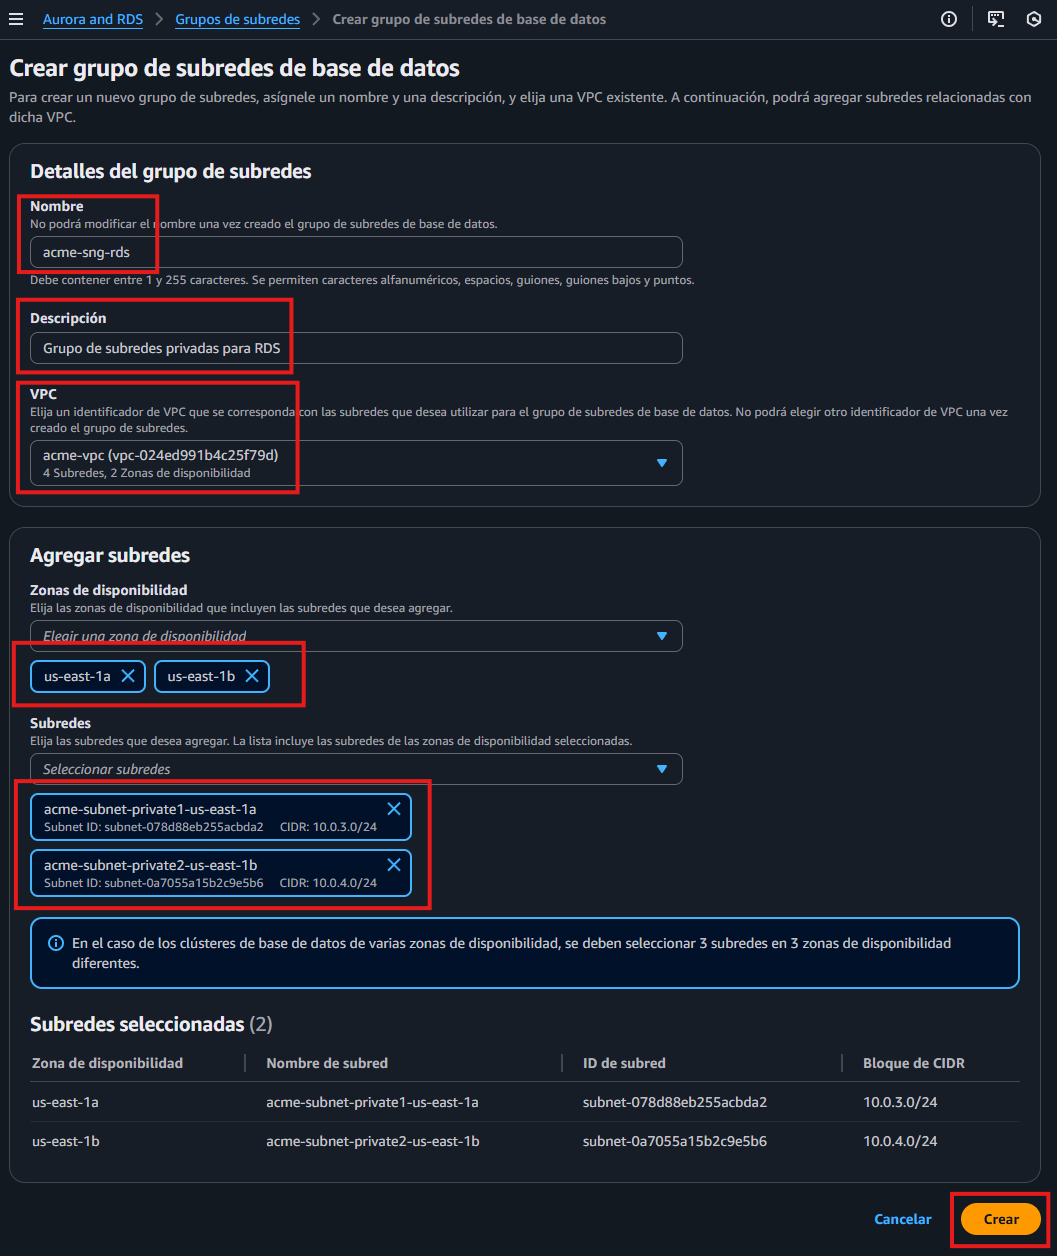
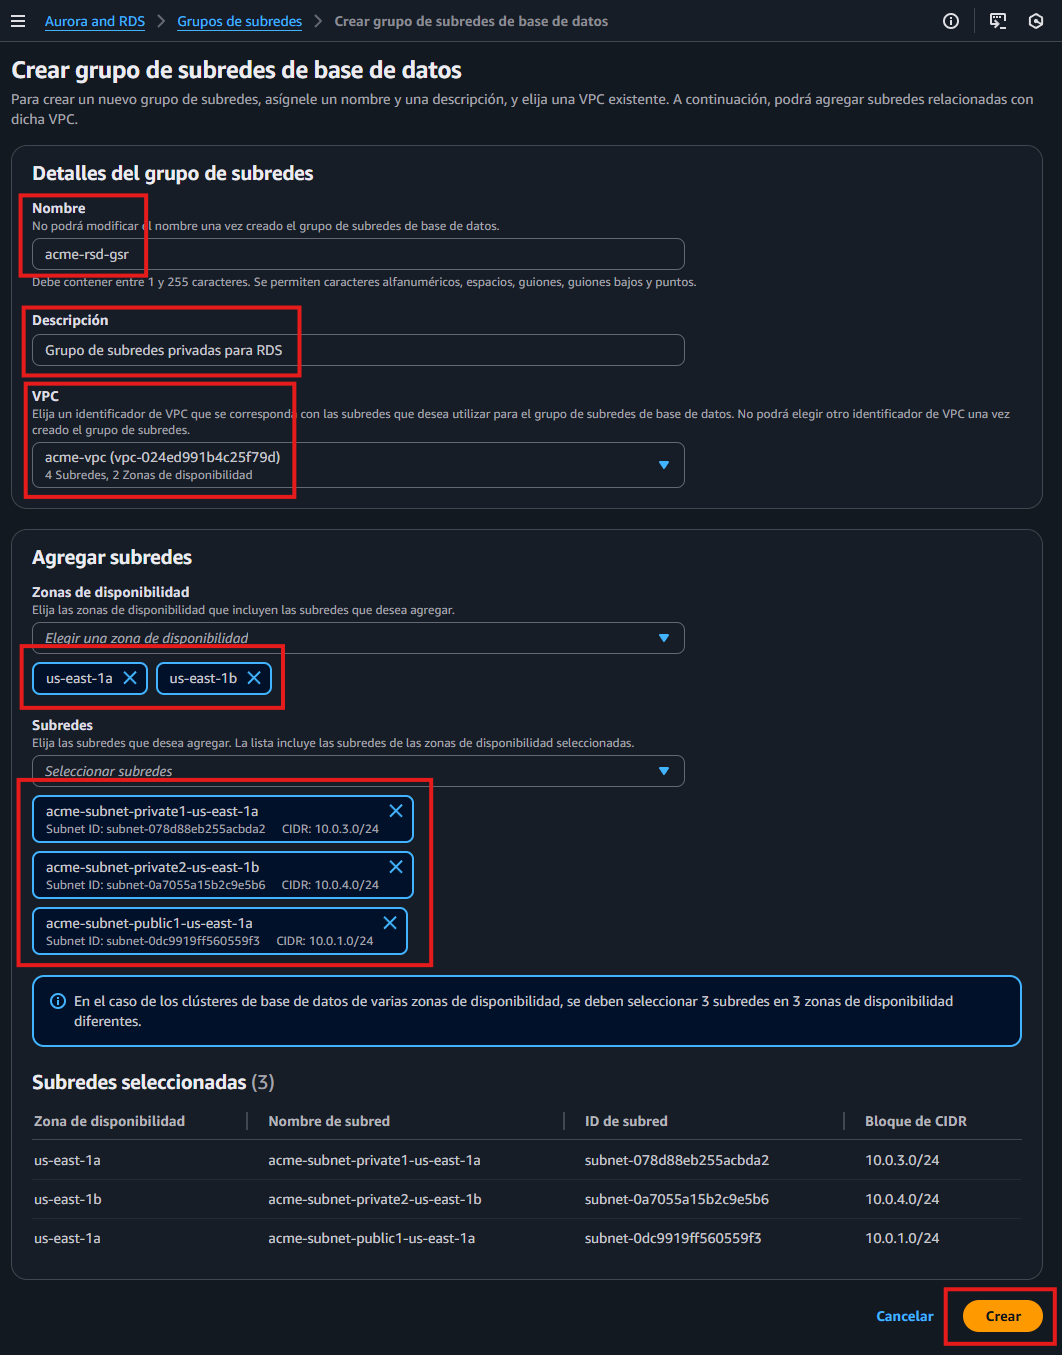
update

diff --git a/Portafolio/M4/portafolio_infraestructura_viva.md b/Portafolio/M4/portafolio_infraestructura_viva.md
@@ -104,14 +104,16 @@ Diseñar y desplegar una red virtual privada (VPC) completamente desde cero para
 
 ## 🧾 Crear y Configuración de grupo de subredes de base de datos
 
-| **Atributo**                | **Valor**                                            | **Motivo / Justificación**                                                                     |
-| --------------------------- | ---------------------------------------------------- | ---------------------------------------------------------------------------------------------- |
-| **Nombre**                  | `acme-rsd-gsr`                                       | Nombre identificador del grupo de subredes para RDS. Sigue convención de nombres del proyecto. |
-| **Descripción**             | `Grupo de subredes privadas para RDS` | Descripción clara que indica el propósito: uso con subredes privadas.                          |
-| **VPC**                     | `acme-vpc`                   | VPC personalizada donde se encuentran las subredes y recursos del proyecto.                    |
-| **Zonas de disponibilidad** | `us-east-1a`, `us-east-1b`                           | Uso de 2 AZs distribuye los recursos para alta disponibilidad sin necesidad de 3 subredes.     |
-| **Subred 1**                | `acme-subnet-private1-us-east-1a` (`10.0.3.0/24`)    | Subred privada en AZ `us-east-1a`, evita acceso directo a internet, ideal para RDS.            |
-| **Subred 2**                | `acme-subnet-private2-us-east-1b` (`10.0.4.0/24`)    | Subred privada en AZ `us-east-1b`, complementa la distribución multi-AZ mínima.                |
+| **Atributo**                | **Valor**                                         | **Motivo / Justificación**                                                                     |
+| --------------------------- | ------------------------------------------------- | ---------------------------------------------------------------------------------------------- |
+| **Nombre**                  | `acme-rsd-gsr`                                    | Nombre identificador del grupo de subredes para RDS. Sigue convención de nombres del proyecto. |
+| **Descripción**             | `Grupo de subredes privadas para RDS`             | Describe el uso general del grupo, enfocado en subredes privadas.                              |
+| **VPC**                     | `acme-vpc`               | VPC personalizada del proyecto donde están definidas las subredes necesarias.                  |
+| **Zonas de disponibilidad** | `us-east-1a`, `us-east-1b`                        | Cobertura multi-AZ para garantizar alta disponibilidad.                                        |
+| **Subred 1**                | `acme-subnet-private1-us-east-1a` (`10.0.3.0/24`) | Subred privada en `us-east-1a`, ideal para aislar servicios backend como RDS.                  |
+| **Subred 2**                | `acme-subnet-private2-us-east-1b` (`10.0.4.0/24`) | Subred privada en `us-east-1b`, garantiza redundancia multi-AZ.                                |
+| **Subred 3**                | `acme-subnet-public1-us-east-1a` (`10.0.1.0/24`)  | Subred pública en `us-east-1a`, permite acceso desde internet si el RDS lo permite.            |
+| **Subred 4**                | `acme-subnet-public1-us-east-1b` (`10.0.1.0/24`)  | Subred pública en `us-east-1b`, garantiza redundancia multi-AZ.            |
 
 ---
 
@@ -149,16 +151,36 @@ Diseñar y desplegar una red virtual privada (VPC) completamente desde cero para
 <img src=".\img\P04-RDS-03.png">
 <img src=".\img\P04-RDS-04.png">
 <img src=".\img\P04-RDS-05.png">
+<img src=".\img\P04-RDS-06.png">
 
 ---
 
 ```sql
+CREATE TABLE productos (
+    id VARCHAR(50) PRIMARY KEY,
+    nombre VARCHAR(100) NOT NULL,
+    descripcion TEXT,
+    img VARCHAR(100),
+    precio NUMERIC(10,2) NOT NULL,
+    stock INT NOT NULL,
+    categoria VARCHAR(50),
+    destacado BOOLEAN NOT NULL
+);
 ```
 
 ```sql
+INSERT INTO productos 
+  (id, nombre, descripcion, img, precio, stock, categoria, destacado)
+VALUES
+  ('prod-001', 'Dinamita Triple X', '¡Explosión garantizada! Ideal para túneles falsos en cañones.', 'dinamita.png', 49.99, 120, 'Explosivos', TRUE),
+  ('prod-002', 'Imán Industrial ACME', 'Poder de atracción insuperable. No se hace responsable por atraer rocas, trenes o el propio Coyote.', 'iman.png', 89.50, 60, 'Herramientas', FALSE),
+  ('prod-003', 'Yunque Volador', 'Clásico ACME. No garantizamos precisión en la caída.', 'yunque.png', 199.90, 15, 'Pesados', TRUE);
 ```
 
 ```sql
+SELECT * FROM productos;
+
+DROP TABLE IF EXISTS productos;
 ```
 
 
